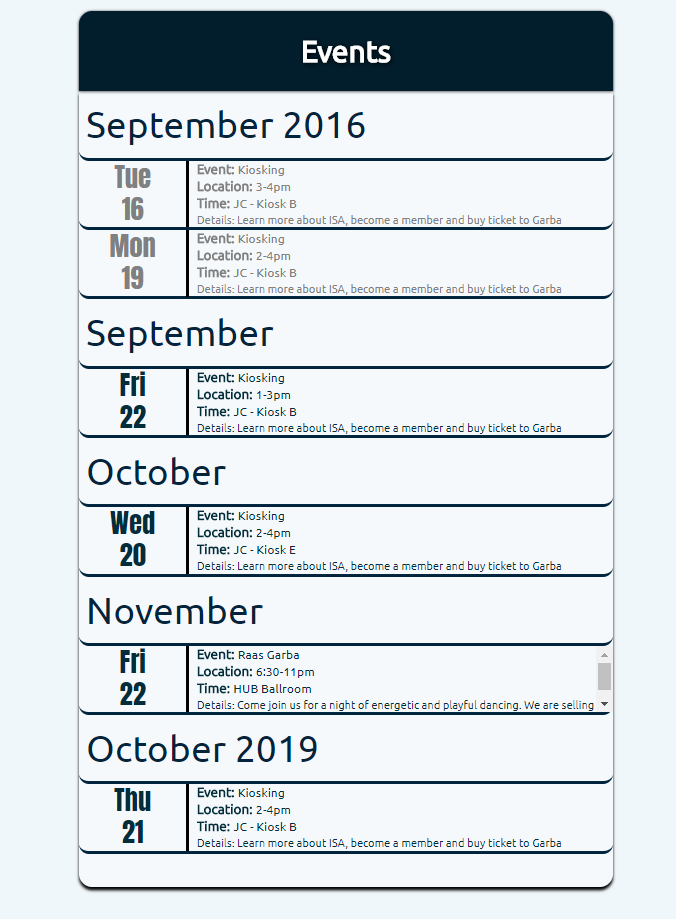
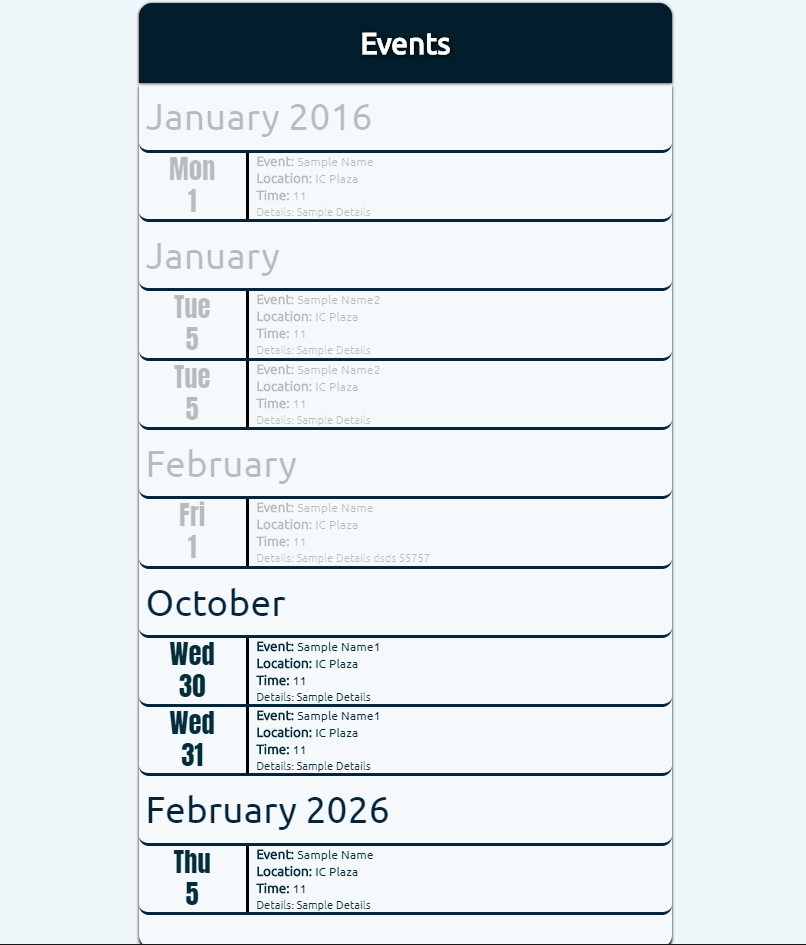
google doc format

Changed region(s): [[0.0932, 0.0, 0.932, 1.0], [0.9009, 0.518, 0.932, 0.5484]]

diff --git a/cardStyleCalendar/README.md b/cardStyleCalendar/README.md
@@ -9,33 +9,9 @@ Created by Mrinnmoy Mondal
 This is a card style calendar layout consisting of a month, date, and description. It uses a resposive layout. Calendar's entries are dynamically added from a database. It offers smart checks incase the database was not correctly implemented. It will sort all dates by year, month and then date. The past dates will be greyed out. Years that are not current will have the year listed. 
 ## How to use 
 Use the given template and change fields as nessasary  
-The database must create a json file 
-```{
-	"numDays" : 2, 
-	
-	"daysEntry": [
-		{
-			"month":"September 2016",
-			"day" : "Mon",
-			"date": 19,
-			"event":"Event",
-			"time": "3-4pm",
-			"location": "Place",
-			"details" :"more info" 
-			
-		},
-		{	
-			"month":"September",
-			"day" : "Tue",
-			"date": 16,
-			"event":"Event",
-			"time": "3-4pm",
-			"location": "Place",
-			"details" :"more info" 
-			
-		}
-}
-```  
+The database must create a json file example below uses google sheets 
+<img src="Sample%20Images/sheets.PNG" height="400px"></img>
+ 
 Change the Sample items in the code. Month can have a year but it is not nessesary if the year is the same as the current year. Date and numDays have to be ints. numDays are how many of the data enteries you want showing. Link the database created json file in `line 17` of the script.js file.
 
 ## Testing
